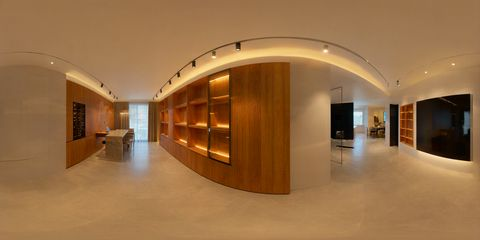
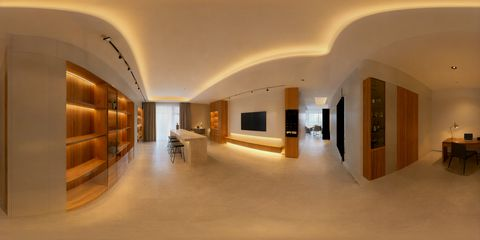
样板间展厅 720 · hero机位版：全景相机搬到确认图机位(1.60,2.70,1.62)@156°，首屏即确认图视角

diff --git a/index.html b/index.html
@@ -209,7 +209,7 @@
 </div>
 
 <script>
-const ROOMS = [{"file": "pano1/s01_lo.jpg", "hi": "pano1/s01.jpg", "thumb": "thumbs/s01.jpg", "label": "木饰面展示系统 / 通高窗岩板吧台 / 悬浮大屏墙 / 走廊对景 · 拖动环视", "name": "01_01_样板间展厅", "v1": "01_样板间展厅", "idx": 1, "yaw0": 0.7854}];
+const ROOMS = [{"file": "pano1_hp/s01_lo.jpg", "hi": "pano1_hp/s01.jpg", "thumb": "thumbs/s01.jpg", "label": "木饰面展示系统 / 通高窗岩板吧台 / 悬浮大屏墙 / 走廊对景 · 拖动环视", "name": "01_01_样板间展厅", "v1": "01_样板间展厅", "idx": 1, "yaw0": 0.0}];
 let SPOTS = {"01_01_样板间展厅": [{"kind": "lamp", "yaw": -1.22, "pitch": 0.42, "title": "灯槽", "desc": "单开间 9.0×6.5m、层高 2.75m,周圈回光槽;长墙到顶木饰面展示系统(开放格与黑框玻璃柜交替、层板灯带),端头通高窗 + 白纱帘,窗前岩板瀑布边吧台配两椅;对面墙白悬浮板挂大屏 + 贴地悬浮矮柜 + 酒格高柜;第三面墙高柜 + 书桌;一端开口通走廊,尽头黑框玻璃隔断后是餐厅对景。花色:斜晖胡桃 + 婷兰灰。"}, {"kind": "lamp", "yaw": 0.0, "pitch": 0.42, "title": "层板灯带", "desc": "单开间 9.0×6.5m、层高 2.75m,周圈回光槽;长墙到顶木饰面展示系统(开放格与黑框玻璃柜交替、层板灯带),端头通高窗 + 白纱帘,窗前岩板瀑布边吧台配两椅;对面墙白悬浮板挂大屏 + 贴地悬浮矮柜 + 酒格高柜;第三面墙高柜 + 书桌;一端开口通走廊,尽头黑框玻璃隔断后是餐厅对景。花色:斜晖胡桃 + 婷兰灰。"}, {"kind": "lamp", "yaw": 1.22, "pitch": 0.42, "title": "轨道射灯", "desc": "单开间 9.0×6.5m、层高 2.75m,周圈回光槽;长墙到顶木饰面展示系统(开放格与黑框玻璃柜交替、层板灯带),端头通高窗 + 白纱帘,窗前岩板瀑布边吧台配两椅;对面墙白悬浮板挂大屏 + 贴地悬浮矮柜 + 酒格高柜;第三面墙高柜 + 书桌;一端开口通走廊,尽头黑框玻璃隔断后是餐厅对景。花色:斜晖胡桃 + 婷兰灰。"}]};
 const ORIGIN = {"01_01_样板间展厅": "单开间 9.0×6.5m、层高 2.75m,周圈回光槽;长墙到顶木饰面展示系统(开放格与黑框玻璃柜交替、层板灯带),端头通高窗 + 白纱帘,窗前岩板瀑布边吧台配两椅;对面墙白悬浮板挂大屏 + 贴地悬浮矮柜 + 酒格高柜;第三面墙高柜 + 书桌;一端开口通走廊,尽头黑框玻璃隔断后是餐厅对景。花色:斜晖胡桃 + 婷兰灰。"};
 
